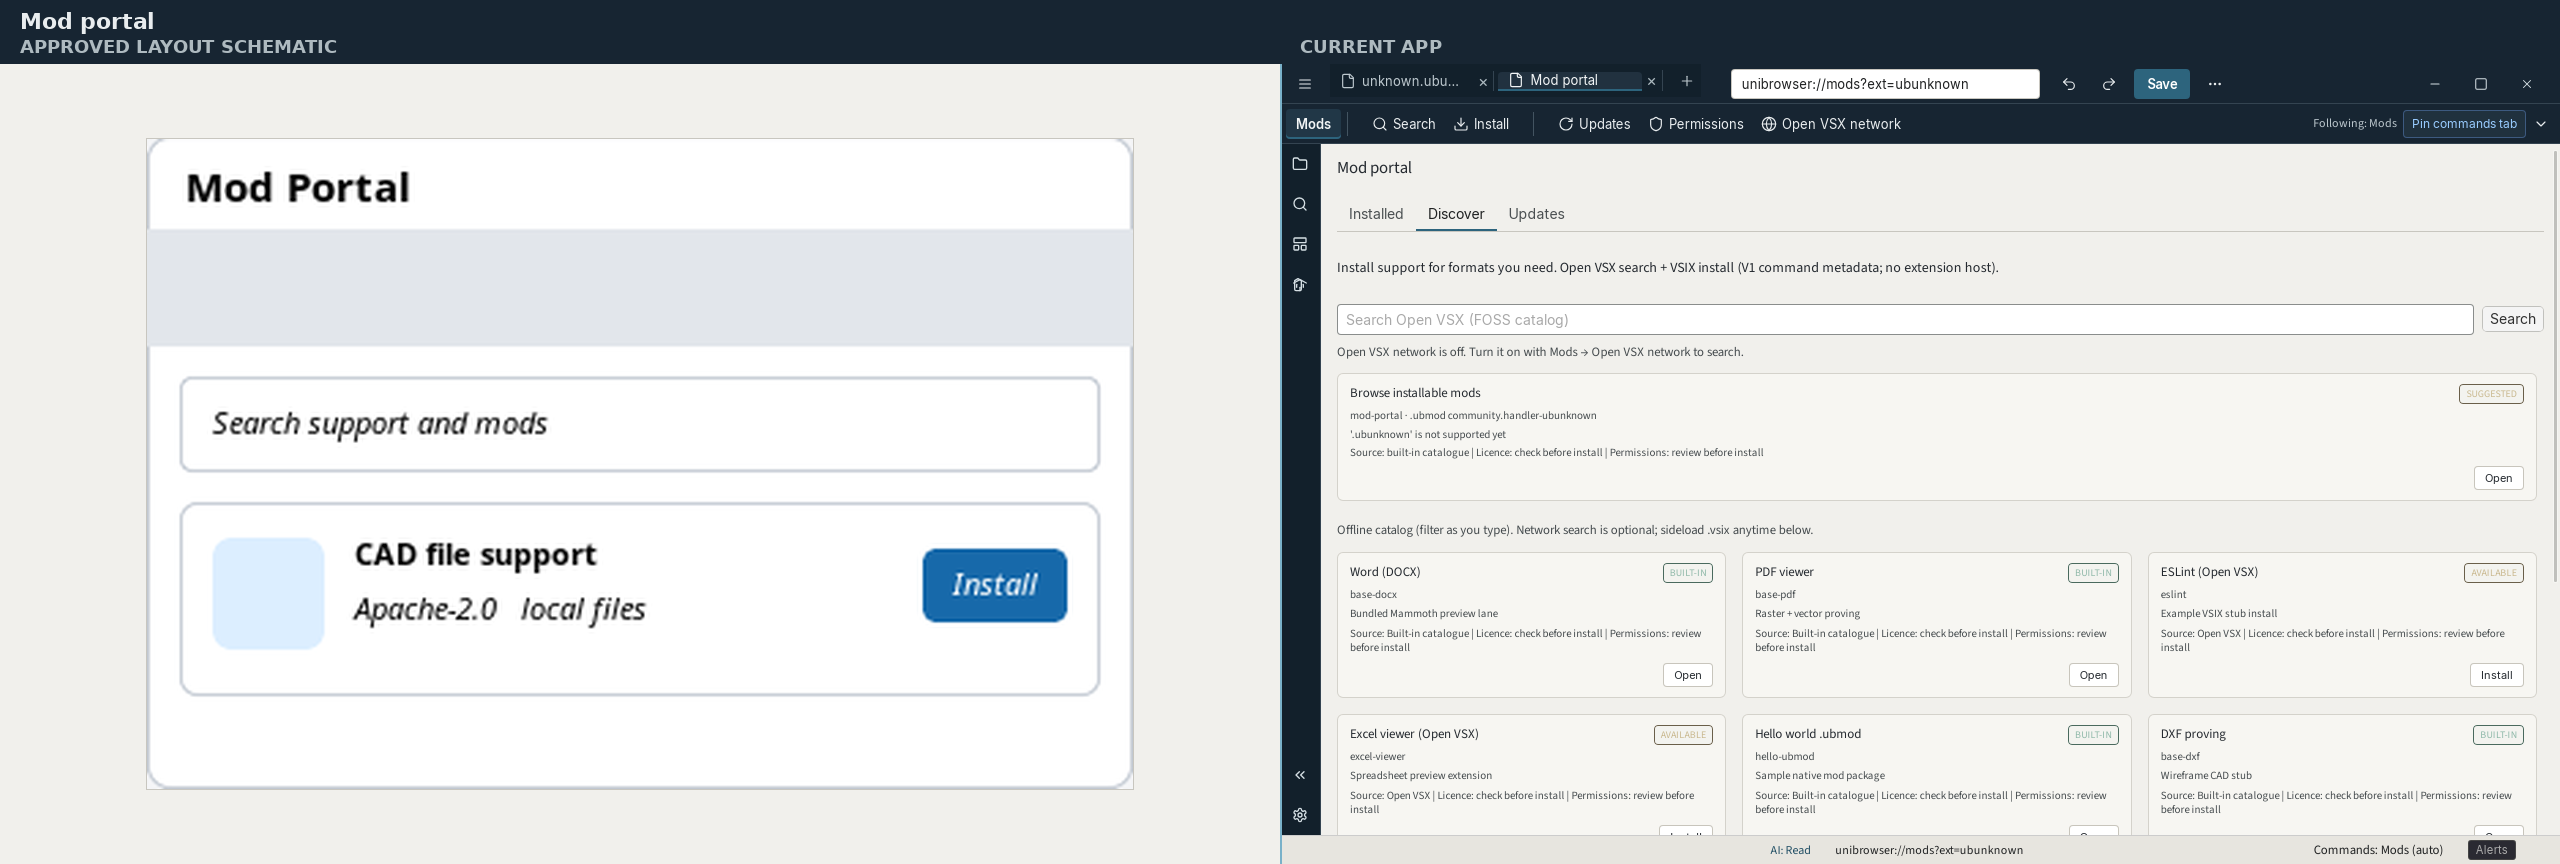
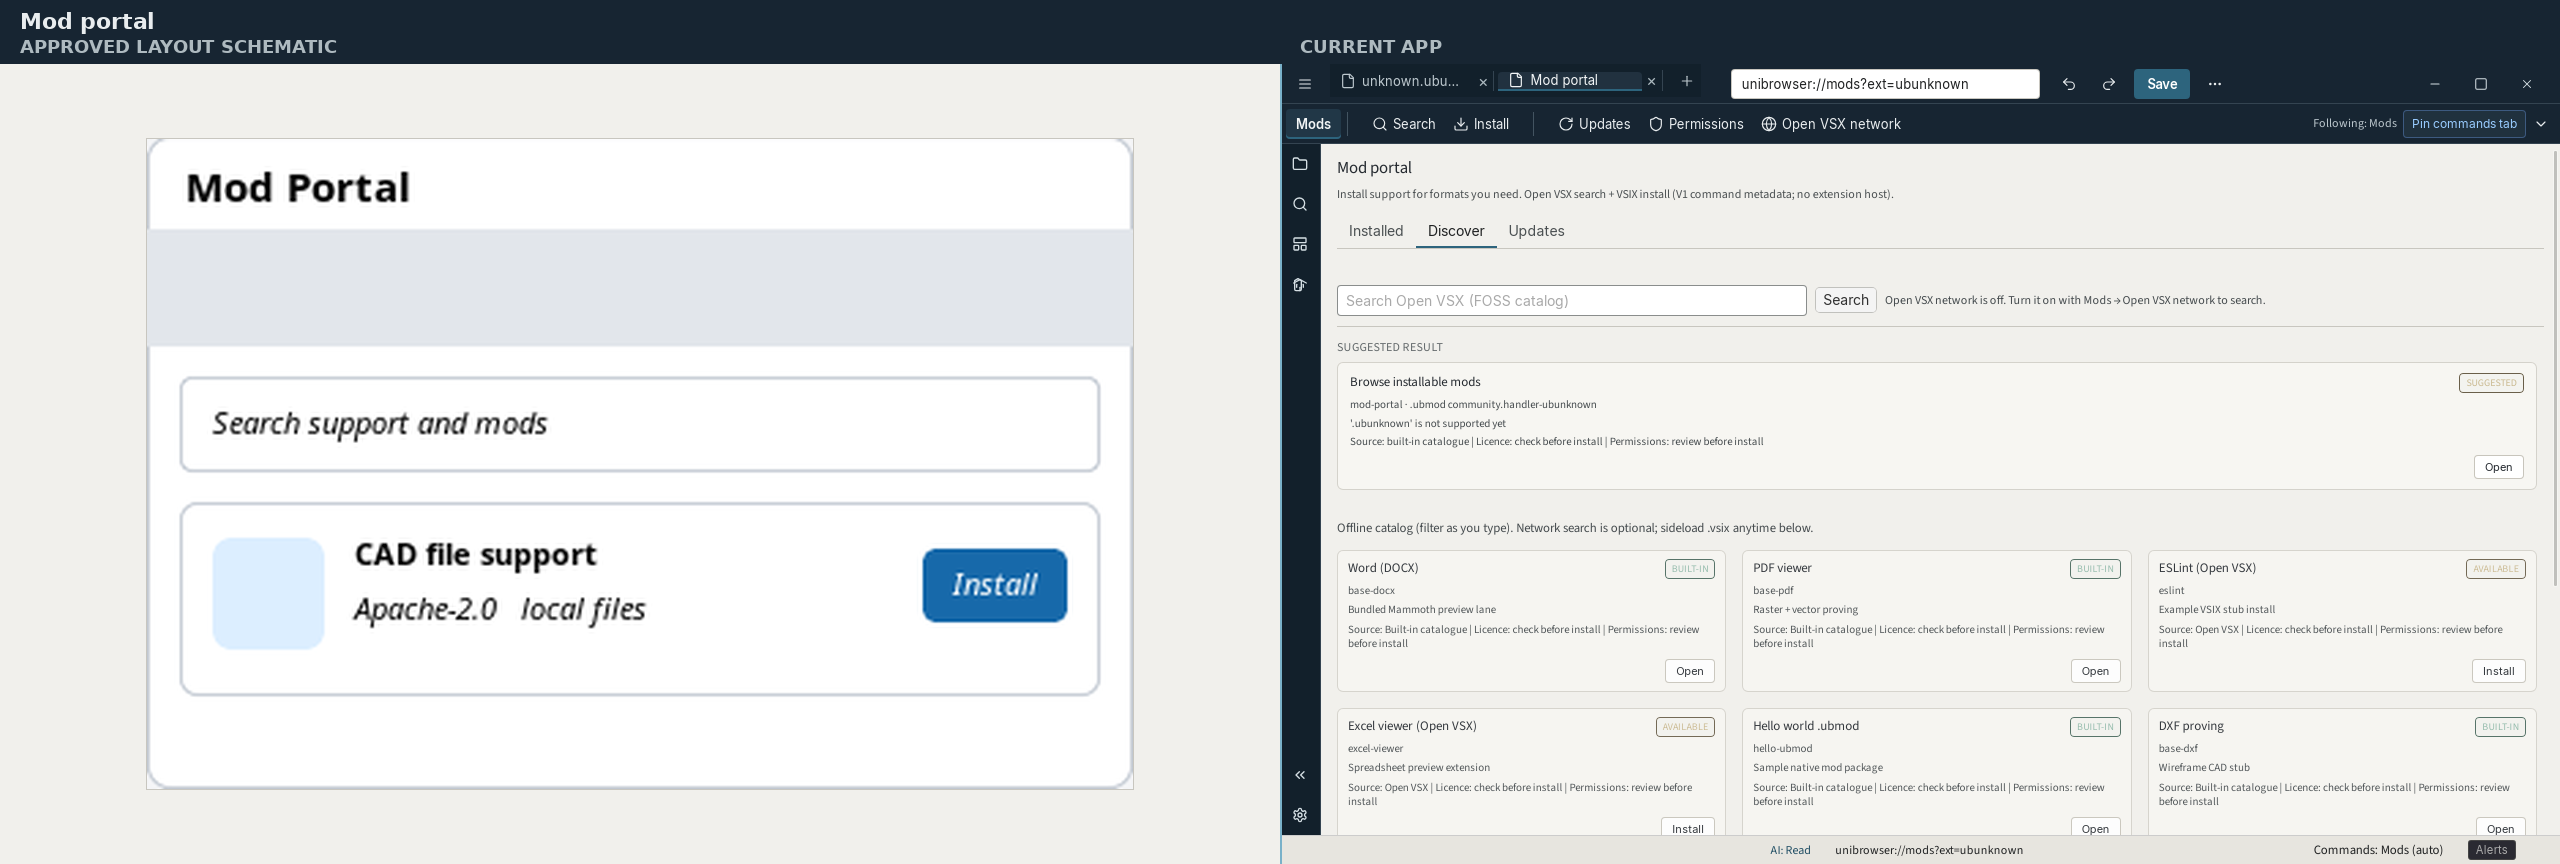
UI-28: Reduce Mod Portal card-grid density
Combine search and network into one task header, highlight one suggested result,
and keep the wider catalogue visually secondary.

diff --git a/crates/unibrowser-desktop/src/main.ts b/crates/unibrowser-desktop/src/main.ts
@@ -1002,9 +1002,13 @@ function renderModPortal(portal: ModPortalDto | null) {
     return;
   }
   modPortalPanel.classList.remove("hidden");
+  const taskHeader = document.createElement("header");
+  taskHeader.className = "mod-portal-task-header";
   const h = document.createElement("h2");
   h.textContent = portal.title;
-  modPortalPanel.appendChild(h);
+  const p = document.createElement("p");
+  p.className = "mod-portal-task-lead";
+  p.textContent = portal.message;
   const tabs = document.createElement("nav");
   tabs.className = "mod-portal-tabs";
   tabs.setAttribute("aria-label", "Mod Portal sections");
@@ -1017,12 +1021,11 @@ function renderModPortal(portal: ModPortalDto | null) {
     button.onclick = () => setModPortalTab(index);
     tabs.appendChild(button);
   });
-  modPortalPanel.appendChild(tabs);
-  const p = document.createElement("p");
-  p.textContent = portal.message;
-  modPortalPanel.appendChild(p);
+  taskHeader.append(h, p, tabs);
+  modPortalPanel.appendChild(taskHeader);
+
   const searchRow = document.createElement("div");
-  searchRow.className = "mod-portal-search";
+  searchRow.className = "mod-portal-search mod-portal-search--task";
   const searchInput = document.createElement("input");
   searchInput.type = "search";
   searchInput.placeholder = t("mods.searchPlaceholder");
@@ -1033,30 +1036,42 @@ function renderModPortal(portal: ModPortalDto | null) {
   const searchStatus = document.createElement("p");
   searchStatus.className = "mod-portal-search-status viewer-note";
   const catalogResults = document.createElement("div");
-  catalogResults.className = "mod-portal-catalog";
+  catalogResults.className = "mod-portal-catalog mod-portal-catalog--restrained";
   const results = document.createElement("div");
   results.className = "mod-portal-results";
   searchRow.append(searchInput, searchBtn);
+  renderModNetworkStatus(searchRow);
   modPortalPanel.appendChild(searchRow);
-  renderModNetworkStatus(modPortalPanel);
-  portal.suggestions.forEach((s) => {
-    appendModSuggestionCard(modPortalPanel, s, (suggestion) => {
-      if (suggestion.open_vsx_id) {
-        searchInput.value = suggestion.open_vsx_id;
-        enableOpenVsxForSearch();
-        searchInput.focus();
-        showToast(t("mods.installStub", { modId: suggestion.mod_id }), "info");
-        return;
-      }
-      if (suggestion.ubmod_id) {
-        showToast(t("mods.ubmodStub", { modId: suggestion.ubmod_id }), "info");
-        return;
-      }
+
+  const featured = document.createElement("section");
+  featured.className = "mod-portal-featured";
+  featured.setAttribute("aria-label", "Suggested result");
+  const featuredTitle = document.createElement("h3");
+  featuredTitle.className = "mod-portal-featured-title";
+  featuredTitle.textContent = "Suggested result";
+  featured.appendChild(featuredTitle);
+  const suggestionHandler = (suggestion: (typeof portal.suggestions)[number]) => {
+    if (suggestion.open_vsx_id) {
+      searchInput.value = suggestion.open_vsx_id;
+      enableOpenVsxForSearch();
+      searchInput.focus();
       showToast(t("mods.installStub", { modId: suggestion.mod_id }), "info");
-    });
-  });
+      return;
+    }
+    if (suggestion.ubmod_id) {
+      showToast(t("mods.ubmodStub", { modId: suggestion.ubmod_id }), "info");
+      return;
+    }
+    showToast(t("mods.installStub", { modId: suggestion.mod_id }), "info");
+  };
+  const primarySuggestion = portal.suggestions[0];
+  if (primarySuggestion) {
+    appendModSuggestionCard(featured, primarySuggestion, suggestionHandler, { featured: true });
+  }
+  modPortalPanel.appendChild(featured);
+
   const catalogNote = document.createElement("p");
-  catalogNote.className = "viewer-note";
+  catalogNote.className = "viewer-note mod-portal-catalog-note";
   catalogNote.textContent = t("mods.catalogNote");
   modPortalPanel.appendChild(catalogNote);
   void invoke<{ offline_mode: boolean }>("get_preferences").then((netPrefs) => {

diff --git a/crates/unibrowser-desktop/src/modPortalUi.ts b/crates/unibrowser-desktop/src/modPortalUi.ts
@@ -116,9 +116,13 @@ export function appendModSuggestionCard(
   parent: HTMLElement,
   suggestion: ModSuggestion,
   onPrimary: (suggestion: ModSuggestion) => void,
+  options?: { featured?: boolean },
 ): void {
   const card = document.createElement("article");
   card.className = "mod-result-card mod-result-card--suggestion";
+  if (options?.featured) {
+    card.classList.add("mod-result-card--featured");
+  }
   const badge = document.createElement("span");
   badge.className = "mod-card-badge mod-card-badge--installable";
   badge.textContent = "Suggested";

diff --git a/docs/design/ui-implementation-plan.md b/docs/design/ui-implementation-plan.md
@@ -849,6 +849,9 @@ Fail rule:
 
 ### UI-27: Align document workbench regions
 
+Status: done 2026-10-07. Removed the permanent Preview/Export/Print row; editor,
+AI, and Problems share one capture with joined regions.
+
 Work:
 
 - Remove or merge the third Preview/Export/Print row into the contextual command
@@ -866,6 +869,9 @@ Fail rule:
   provider text, clipped editor content, or unreadable diagnostics.
 
 ### UI-28: Reduce Mod Portal card-grid density
+
+Status: done 2026-10-07. Task header merges search and network state; one featured
+suggested result sits above a restrained catalogue.
 
 Work:
 
